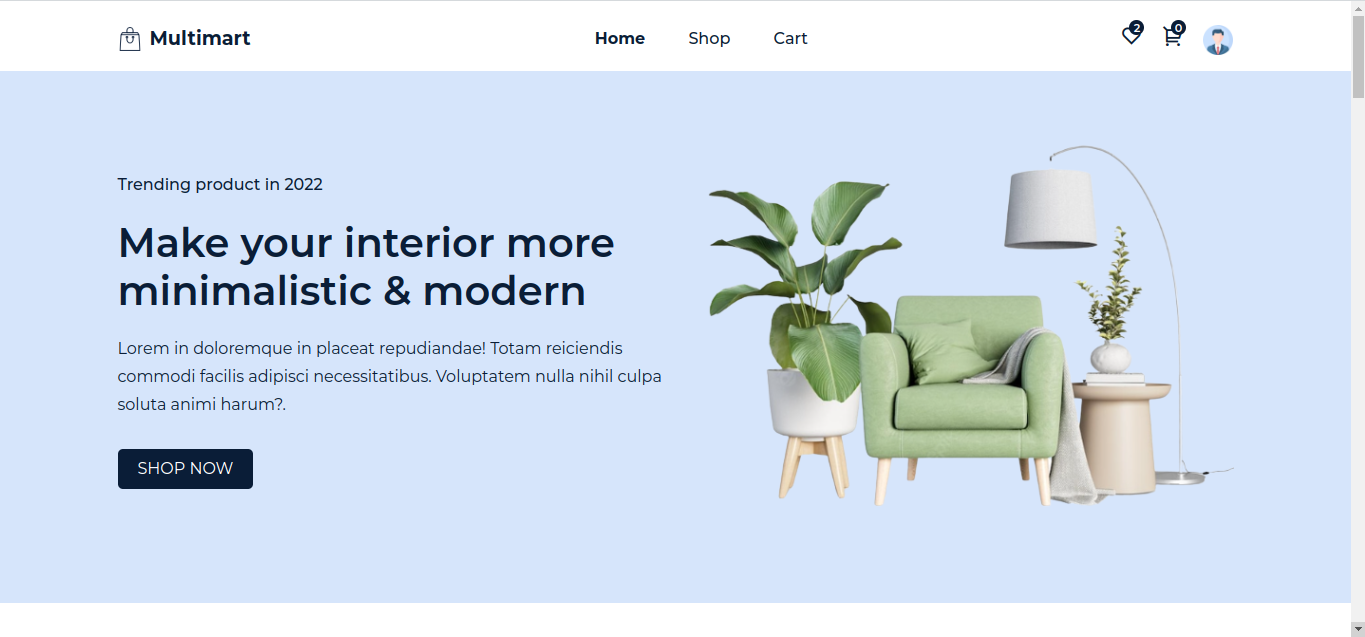
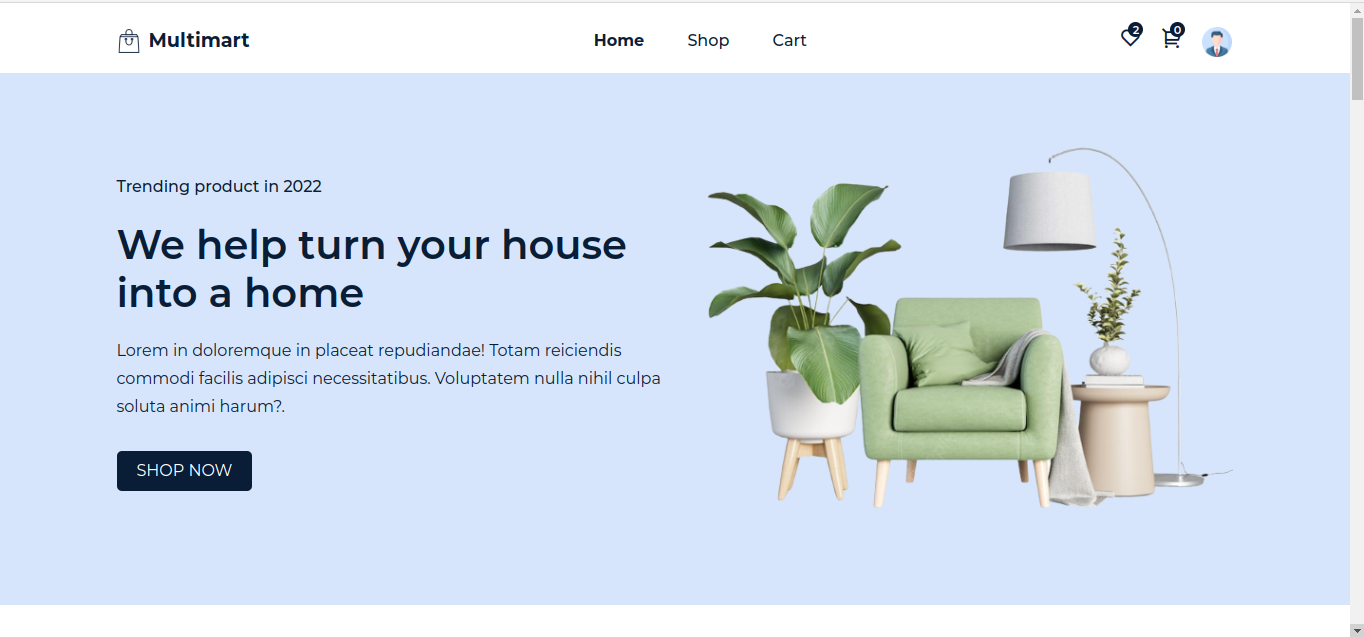
Change homepage main title and screenshot pix

diff --git a/src/pages/Home.js b/src/pages/Home.js
@@ -55,7 +55,7 @@ const Home = () => {
                 <p className={styles.homeHeroSubtitle}>
                   Trending product in {year}
                 </p>
-                <h2>Make your interior more minimalistic & modern</h2>
+                <h2>We help turn your house into a home</h2>
                 <p>
                   Lorem in doloremque in placeat repudiandae! Totam reiciendis
                   commodi facilis adipisci necessitatibus. Voluptatem nulla
